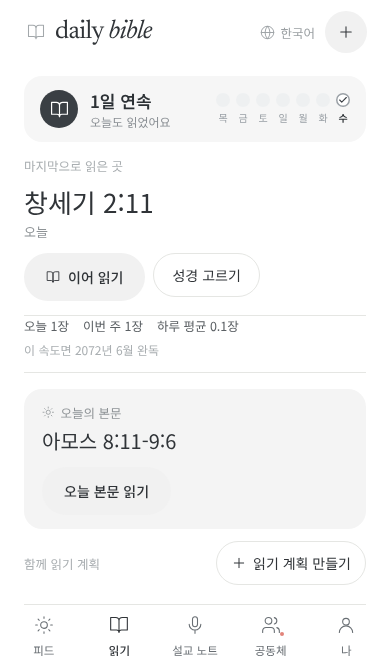
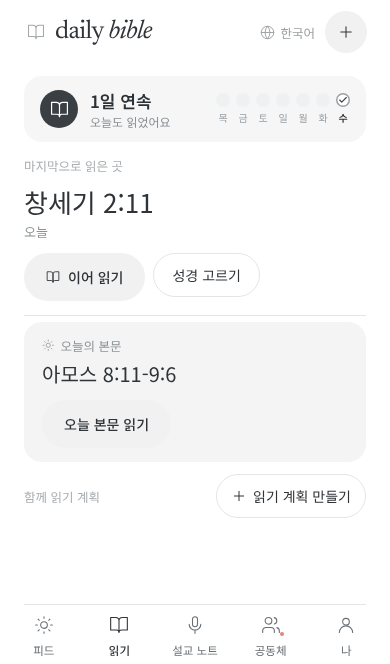
Read tab and Bible picker: no reading stats row
Claude-Session: https://claude.ai/code/session_01HiA1Grd2LiqdahbcYTHw2p

diff --git a/app.js b/app.js
@@ -1884,7 +1884,6 @@ function biblePicker(opts = {}) {
   if (!bpEl) { bpEl = document.createElement('div'); bpEl.className = 'bpick'; bpEl.id = 'bpick'; document.body.appendChild(bpEl); }
   bpEl.hidden = false;
   bpEl.innerHTML = `<header class="bp-top"><span class="bp-title">${t('bp.title')}</span><button class="close" data-action="bp-close" aria-label="${t('aria.close')}">${icon('x')}</button></header>
-    ${state.bp.mode === 'reader' ? readStatsRow() : ''}
     <div class="bp-cols"><div class="bp-col bp-books">${BOOK_SECTIONS.map(([k, a, z]) => `<p class="bp-sec">${t('bp.' + k)}</p>${Array.from({ length: z - a + 1 }, (_, i) => a + i).map(b =>
       `<button class="bp-book" data-action="bp-book" data-id="${b}" id="bp-b-${b}"><span>${esc(bookName(b))}${tick(bookRead(b))}</span>${lang() === 'ko' ? `<small>${esc(BOOKS[b - 1][2])}</small>` : ''}</button>`).join('')}`).join('')}</div>
       <div class="bp-col bp-chs" id="bp-chs"></div><div class="bp-col bp-vs" id="bp-vs"></div></div>
@@ -2868,7 +2867,6 @@ function renderBibleHome() {
       ${r?.at ? `<p class="gd-sub">${esc(dayLabel(r.at.slice(0, 10)))}</p>` : ''}
       <div class="gd-acts"><button class="primary" data-action="bb-continue">${icon('book')}${t('bb.continue')}</button><button class="secondary" data-action="reader-pick">${t('bb.pick')}</button></div>
     </section>
-    ${readStatsRow()}
     ${p?.ref ? `<section class="gd-devo"><p class="gd-kicker">${icon('sun')}<span>${t('bb.today')}${p.source ? ' · ' + esc(p.source) : ''}</span></p>
       <p class="gd-ref">${esc(refText(p.ref))}</p>
       <div class="gd-acts"><button class="primary" data-action="bb-today">${t('bb.readToday')}</button></div></section>` : ''}

diff --git a/site/web/app/app.js b/site/web/app/app.js
@@ -1884,7 +1884,6 @@ function biblePicker(opts = {}) {
   if (!bpEl) { bpEl = document.createElement('div'); bpEl.className = 'bpick'; bpEl.id = 'bpick'; document.body.appendChild(bpEl); }
   bpEl.hidden = false;
   bpEl.innerHTML = `<header class="bp-top"><span class="bp-title">${t('bp.title')}</span><button class="close" data-action="bp-close" aria-label="${t('aria.close')}">${icon('x')}</button></header>
-    ${state.bp.mode === 'reader' ? readStatsRow() : ''}
     <div class="bp-cols"><div class="bp-col bp-books">${BOOK_SECTIONS.map(([k, a, z]) => `<p class="bp-sec">${t('bp.' + k)}</p>${Array.from({ length: z - a + 1 }, (_, i) => a + i).map(b =>
       `<button class="bp-book" data-action="bp-book" data-id="${b}" id="bp-b-${b}"><span>${esc(bookName(b))}${tick(bookRead(b))}</span>${lang() === 'ko' ? `<small>${esc(BOOKS[b - 1][2])}</small>` : ''}</button>`).join('')}`).join('')}</div>
       <div class="bp-col bp-chs" id="bp-chs"></div><div class="bp-col bp-vs" id="bp-vs"></div></div>
@@ -2868,7 +2867,6 @@ function renderBibleHome() {
       ${r?.at ? `<p class="gd-sub">${esc(dayLabel(r.at.slice(0, 10)))}</p>` : ''}
       <div class="gd-acts"><button class="primary" data-action="bb-continue">${icon('book')}${t('bb.continue')}</button><button class="secondary" data-action="reader-pick">${t('bb.pick')}</button></div>
     </section>
-    ${readStatsRow()}
     ${p?.ref ? `<section class="gd-devo"><p class="gd-kicker">${icon('sun')}<span>${t('bb.today')}${p.source ? ' · ' + esc(p.source) : ''}</span></p>
       <p class="gd-ref">${esc(refText(p.ref))}</p>
       <div class="gd-acts"><button class="primary" data-action="bb-today">${t('bb.readToday')}</button></div></section>` : ''}

diff --git a/site/web/daily-bible/app.js b/site/web/daily-bible/app.js
@@ -1884,7 +1884,6 @@ function biblePicker(opts = {}) {
   if (!bpEl) { bpEl = document.createElement('div'); bpEl.className = 'bpick'; bpEl.id = 'bpick'; document.body.appendChild(bpEl); }
   bpEl.hidden = false;
   bpEl.innerHTML = `<header class="bp-top"><span class="bp-title">${t('bp.title')}</span><button class="close" data-action="bp-close" aria-label="${t('aria.close')}">${icon('x')}</button></header>
-    ${state.bp.mode === 'reader' ? readStatsRow() : ''}
     <div class="bp-cols"><div class="bp-col bp-books">${BOOK_SECTIONS.map(([k, a, z]) => `<p class="bp-sec">${t('bp.' + k)}</p>${Array.from({ length: z - a + 1 }, (_, i) => a + i).map(b =>
       `<button class="bp-book" data-action="bp-book" data-id="${b}" id="bp-b-${b}"><span>${esc(bookName(b))}${tick(bookRead(b))}</span>${lang() === 'ko' ? `<small>${esc(BOOKS[b - 1][2])}</small>` : ''}</button>`).join('')}`).join('')}</div>
       <div class="bp-col bp-chs" id="bp-chs"></div><div class="bp-col bp-vs" id="bp-vs"></div></div>
@@ -2868,7 +2867,6 @@ function renderBibleHome() {
       ${r?.at ? `<p class="gd-sub">${esc(dayLabel(r.at.slice(0, 10)))}</p>` : ''}
       <div class="gd-acts"><button class="primary" data-action="bb-continue">${icon('book')}${t('bb.continue')}</button><button class="secondary" data-action="reader-pick">${t('bb.pick')}</button></div>
     </section>
-    ${readStatsRow()}
     ${p?.ref ? `<section class="gd-devo"><p class="gd-kicker">${icon('sun')}<span>${t('bb.today')}${p.source ? ' · ' + esc(p.source) : ''}</span></p>
       <p class="gd-ref">${esc(refText(p.ref))}</p>
       <div class="gd-acts"><button class="primary" data-action="bb-today">${t('bb.readToday')}</button></div></section>` : ''}
